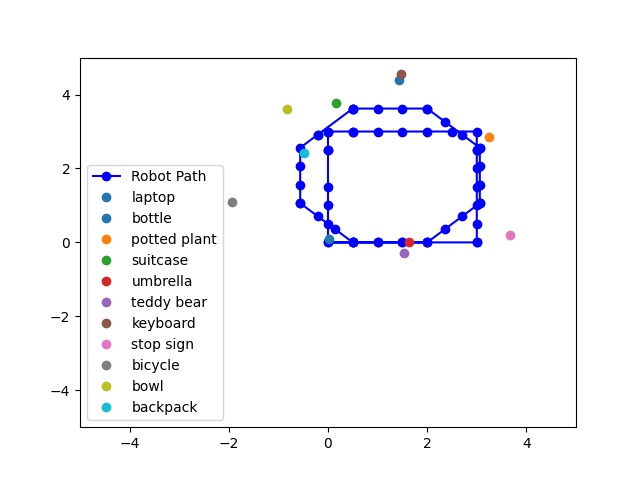
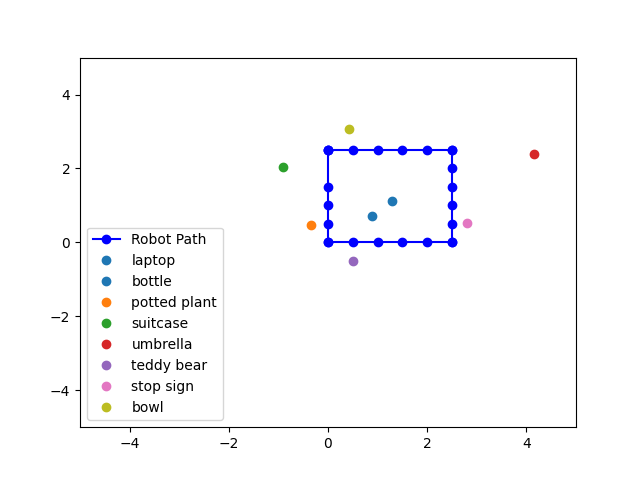
square run on carpet

diff --git a/rb5_control/src/hw3_move.py b/rb5_control/src/hw3_move.py
@@ -23,19 +23,19 @@ class MovementCommands(Node):
         )
 
         self.steps = [
-            # # square
-            ['move', 0.5],
-            # ['move', 0.5], ['move', 0.5], ['move', 0.5], ['move', 0.5], ['move', 0.5], ['move', 0.5],
-            # ['spin', 90]
-            # ['move', 0.5], ['move', 0.5], ['move', 0.5], ['move', 0.5], ['move', 0.5], ['move', 0.5],
-            # ['spin', 90],
-            # ['move', 0.5], ['move', 0.5], ['move', 0.5], ['move', 0.5], ['move', 0.5], ['move', 0.5],
-            # ['spin', 90],
-            # ['move', 0.5], ['move', 0.5], ['move', 0.5], ['move', 0.5], ['move', 0.5], ['move', 0.5],
-            # ['spin', 90],
-            # # # # move to start ocotogon
+            # ['move', 0.5]
+            # square
+            ['move', 0.5], ['move', 0.5], ['move', 0.5], ['move', 0.5], ['move', 0.5],
+            ['spin', 90],
+            ['move', 0.5], ['move', 0.5], ['move', 0.5], ['move', 0.5], ['move', 0.5],
+            ['spin', 90],
+            ['move', 0.5], ['move', 0.5], ['move', 0.5], ['move', 0.5], ['move', 0.5],
+            ['spin', 90],
+            ['move', 0.5], ['move', 0.5], ['move', 0.5], ['move', 0.5], ['move', 0.5],
+            ['spin', 90],
+            # # move to start octagon
             # ['move', 0.5],
-            # # # octogon
+            # # # # octogon
             # ['move', 0.5], ['move', 0.5], ['move', 0.5],
             # ['spin', 45],
             # ['move', 0.5], ['move', 0.5], ['move', 0.5],

diff --git a/rb5_control/src/hw3_slam.py b/rb5_control/src/hw3_slam.py
@@ -229,9 +229,9 @@ class SlamControlNode(Node):
         print('publisher done')
         
         move_twist = Twist()
-        move_twist.linear.x = 2.6   # 2.6 FAH Carpet
+        move_twist.linear.x = 1.48   # 1.48 FAH Carpet
         self.twist_pub.publish(move_twist)
-        time.sleep(distance / 0.5)
+        time.sleep(distance / 0.5 * 2)
         move_twist.linear.x = 0.0
         self.twist_pub.publish(move_twist)
 
@@ -256,7 +256,7 @@ class SlamControlNode(Node):
         self.movement_pub.publish(state_msg)
 
         turn_twist = Twist()
-        turn_twist.angular.z = 8.5  # 8.5 FAH Carpet
+        turn_twist.angular.z = 8.6  # 8.5 FAH Carpet
         self.twist_pub.publish(turn_twist)
         time.sleep(np.pi / 2)
         turn_twist.angular.z = 0.0
